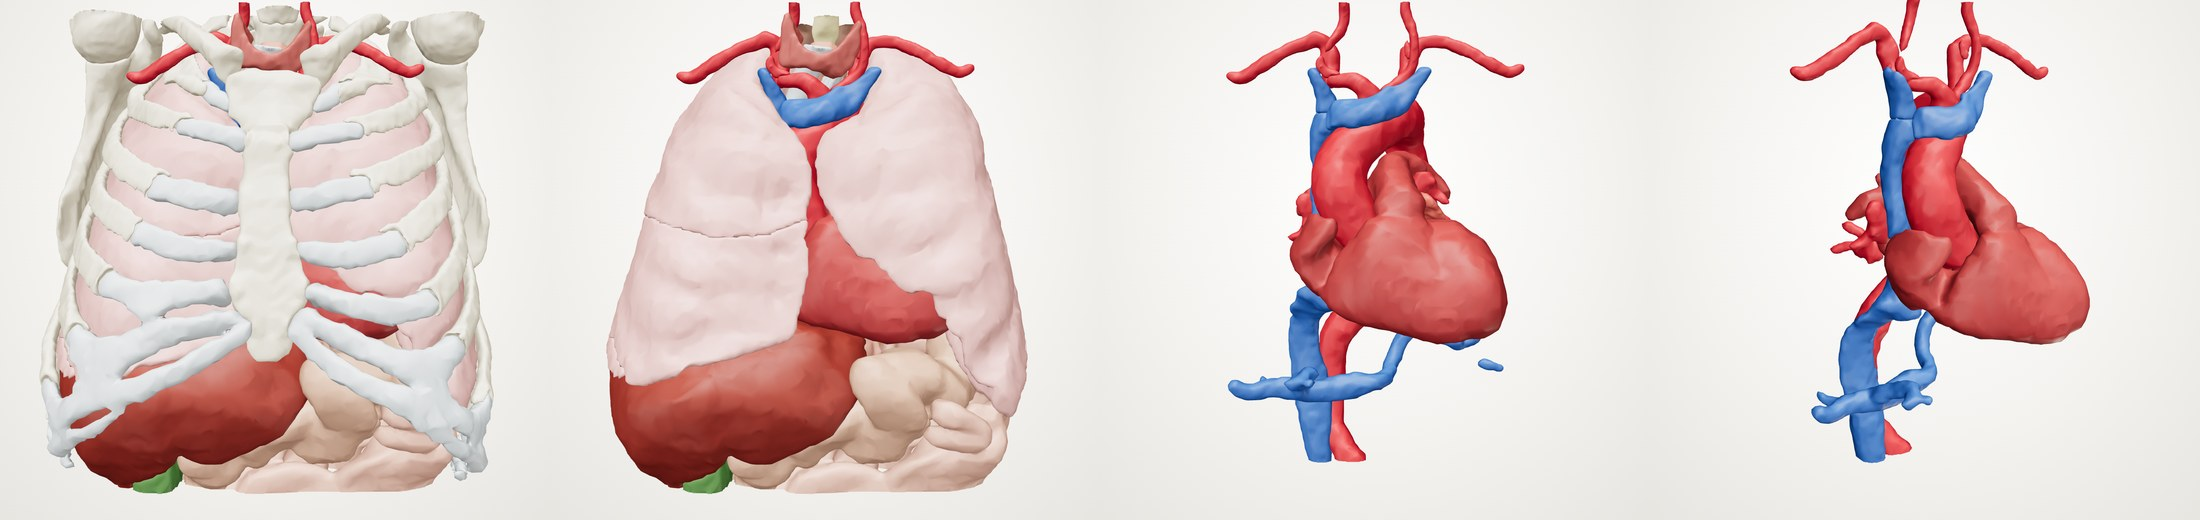
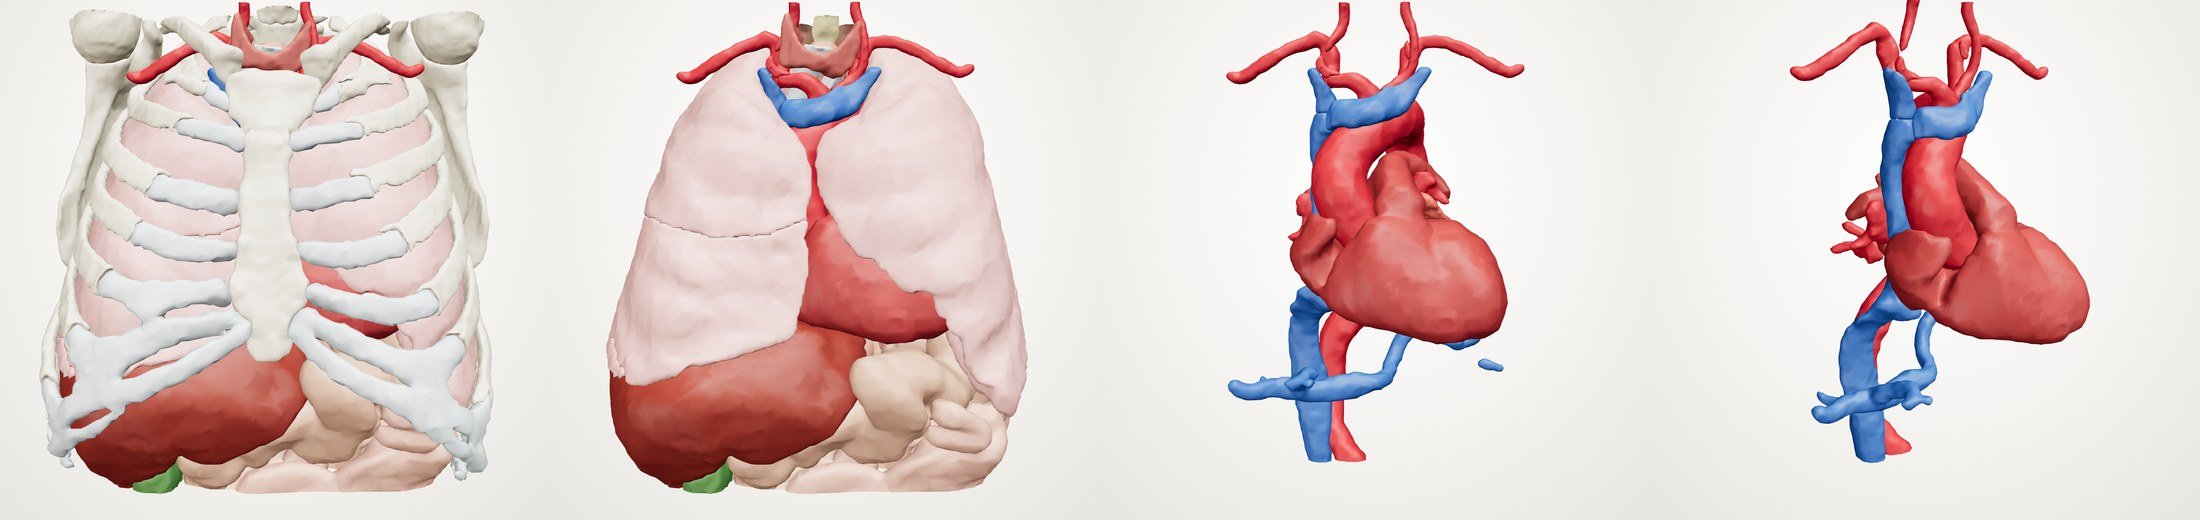
Light models from the viewer's side
The key and fill lights now follow the camera, so the side facing the
viewer is lit whichever way the scan faces (the head CT's face was in
shadow). Sky light comes from the head end. README images retaken.

diff --git a/web/index.html b/web/index.html
@@ -559,12 +559,25 @@ renderer.toneMapping = THREE.ACESFilmicToneMapping; renderer.toneMappingExposure
 host.appendChild(renderer.domElement);
 cam.up.set(0, 0, 1);               // scan's long axis up: orbiting turns the body like a turntable
 const ctrl = new OrbitControls(cam, renderer.domElement); ctrl.enableDamping = true;
-// Soft studio lighting: a room environment for reflections plus a key and rim
+// Soft studio lighting: a room environment for reflections plus a key and fill
 // light. Display only: it never changes the geometry that is measured.
+// The key and fill move with the camera (upper right and lower left of the
+// viewer), so whichever side faces the viewer is lit, whatever way the scan
+// faces. Sky light comes from the head end of the scan (+z).
 scene.environment = new THREE.PMREMGenerator(renderer).fromScene(new RoomEnvironment(), 0.04).texture;
-scene.add(new THREE.HemisphereLight(0xffffff, 0x8a7f78, .45));
-const key = new THREE.DirectionalLight(0xffffff, 1.1); key.position.set(1, 1.2, 1); scene.add(key);
-const fillLight = new THREE.DirectionalLight(0xfff0e3, .45); fillLight.position.set(-1, -.4, -1); scene.add(fillLight);
+const hemi = new THREE.HemisphereLight(0xffffff, 0x8a7f78, .45); hemi.position.set(0, 0, 1); scene.add(hemi);
+const key = new THREE.DirectionalLight(0xffffff, 1.1); scene.add(key);
+const fillLight = new THREE.DirectionalLight(0xfff0e3, .45); scene.add(fillLight);
+const _camR = new THREE.Vector3(), _camU = new THREE.Vector3();
+function placeLights(){
+  cam.updateMatrixWorld();
+  const d = cam.position.distanceTo(ctrl.target) || 1;
+  _camR.setFromMatrixColumn(cam.matrixWorld, 0); _camU.setFromMatrixColumn(cam.matrixWorld, 1);
+  key.position.copy(cam.position).addScaledVector(_camR, .8 * d).addScaledVector(_camU, .9 * d);
+  fillLight.position.copy(cam.position).addScaledVector(_camR, -.9 * d).addScaledVector(_camU, -.4 * d);
+  key.target.position.copy(ctrl.target); fillLight.target.position.copy(ctrl.target);
+  key.target.updateMatrixWorld(); fillLight.target.updateMatrixWorld();
+}
 const group = new THREE.Group(); scene.add(group);
 const loader = new STLLoader();
 const parts = new Map();          // label -> {mesh, mat, cat, color, row, check}
@@ -785,7 +798,7 @@ window.medsysView = (azDeg, elDeg = 0) => {
   const d = cam.position.distanceTo(ctrl.target), a = THREE.MathUtils.degToRad(azDeg), e = THREE.MathUtils.degToRad(elDeg);
   ctrl.enabled = false; cam.up.set(0, 0, 1);
   cam.position.set(d * Math.cos(e) * Math.cos(a), d * Math.cos(e) * Math.sin(a), d * Math.sin(e)).add(ctrl.target);
-  cam.lookAt(ctrl.target); renderer.render(scene, cam);
+  cam.lookAt(ctrl.target); placeLights(); renderer.render(scene, cam);
 };
 
 // ---------- Standard views (front, back, sides, top, LAO/RAO 30°) ----------
@@ -946,6 +959,7 @@ setInterval(invalidate, 400);
   dirty = false;
   sliceGroup.position.copy(group.position);
   if (SLICE.plane) clipPlane.constant = SLICE.plane.position.z + group.position.z;
+  placeLights();
   renderer.render(scene, cam);
   measureLabelPos(); cardioLabelPos();
 })();
@@ -1041,7 +1055,7 @@ document.querySelectorAll('.tool[data-mode]').forEach(b => b.addEventListener('c
 }));
 $('resetView').onclick = frame;
 $('snapshot').onclick = () => {
-  renderer.render(scene, cam);   // read the buffer in the same frame it was drawn
+  placeLights(); renderer.render(scene, cam);   // read the buffer in the same frame it was drawn
   const src = renderer.domElement, out = document.createElement('canvas');
   out.width = src.width; out.height = src.height;
   const g = out.getContext('2d');
